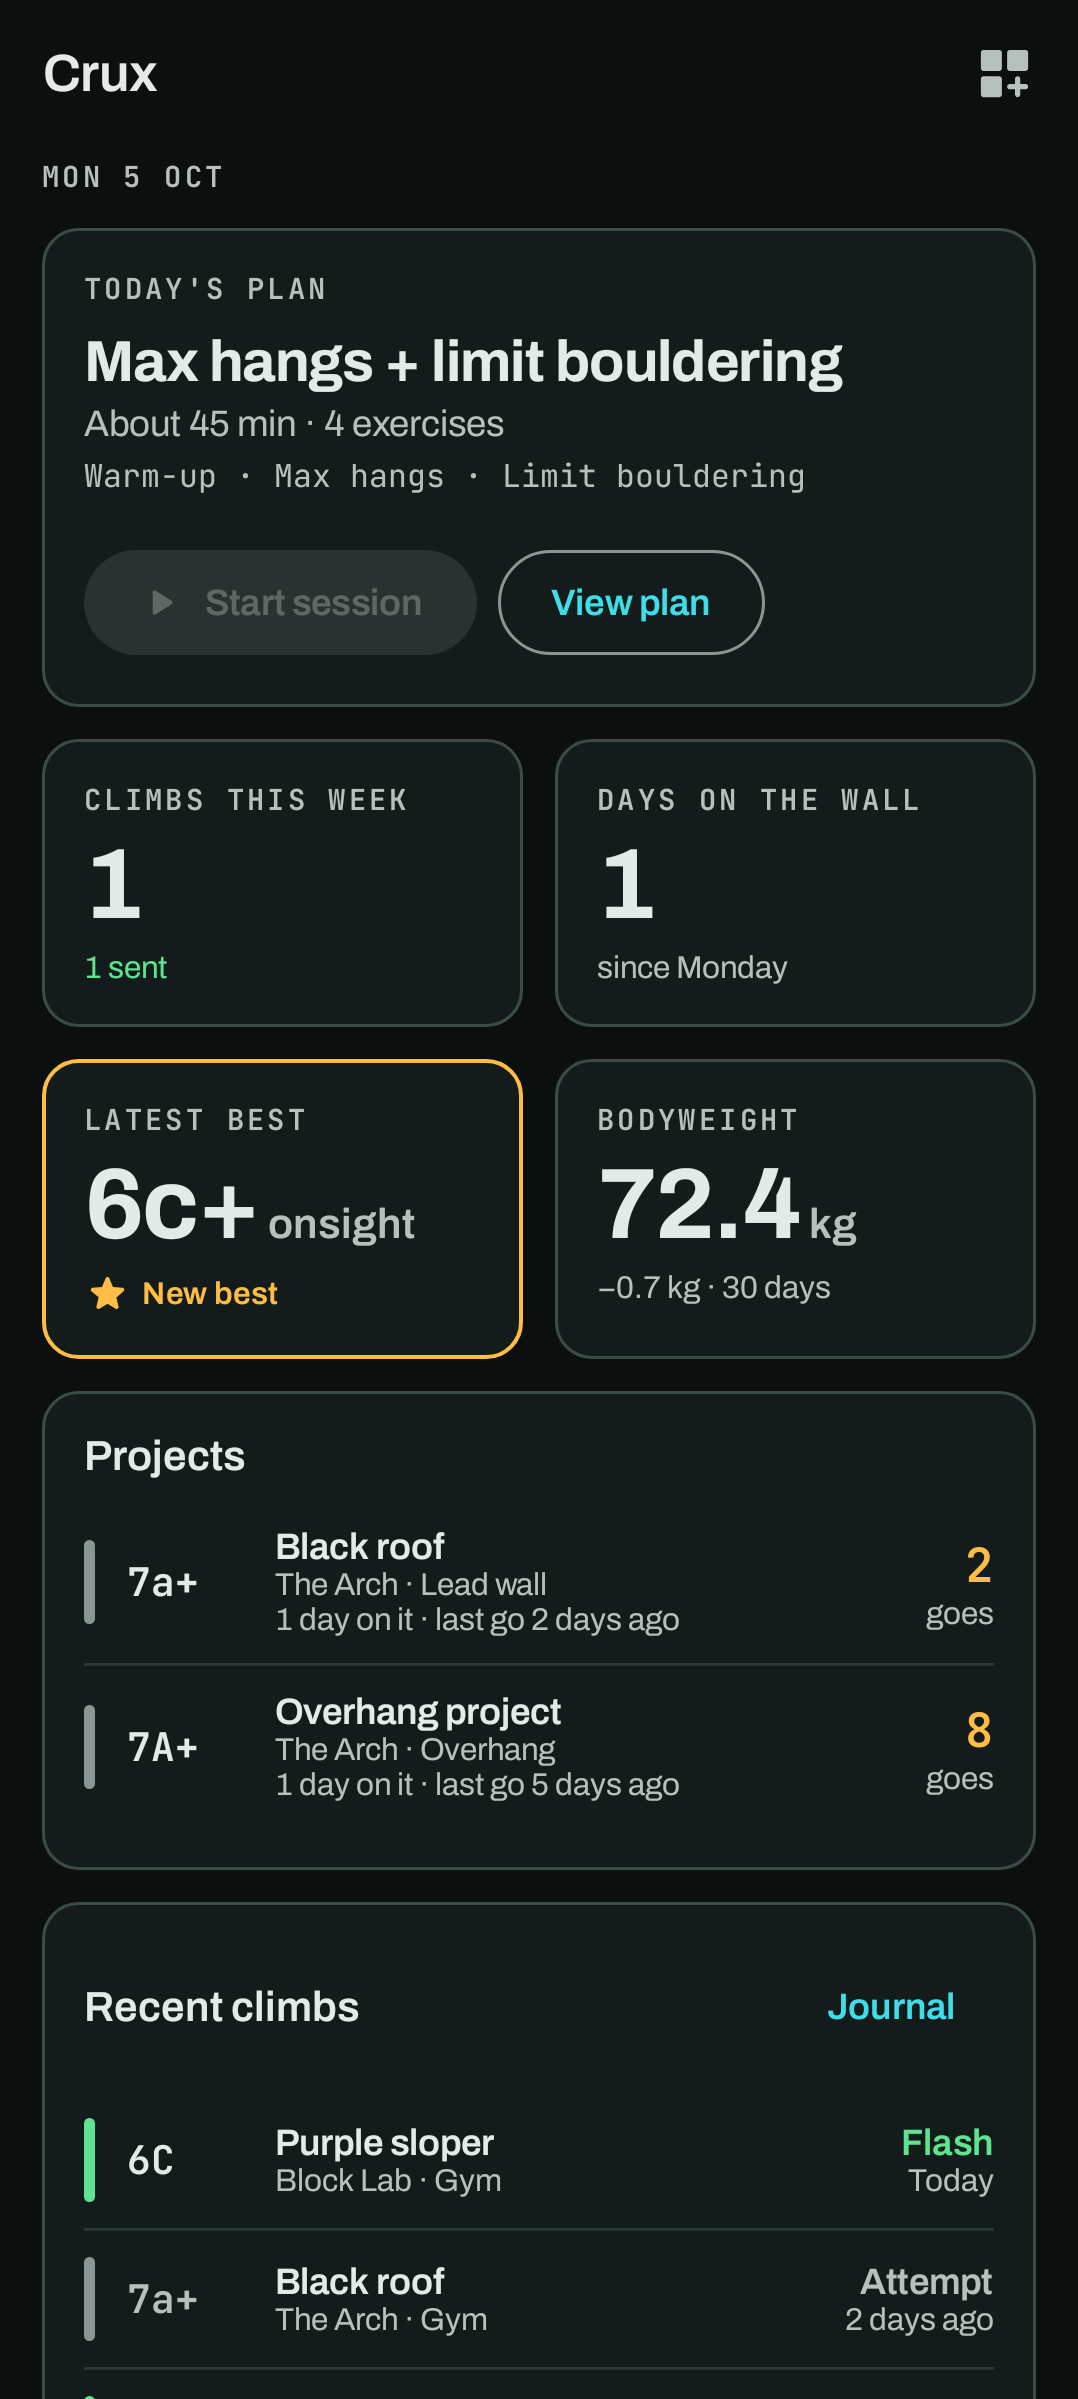
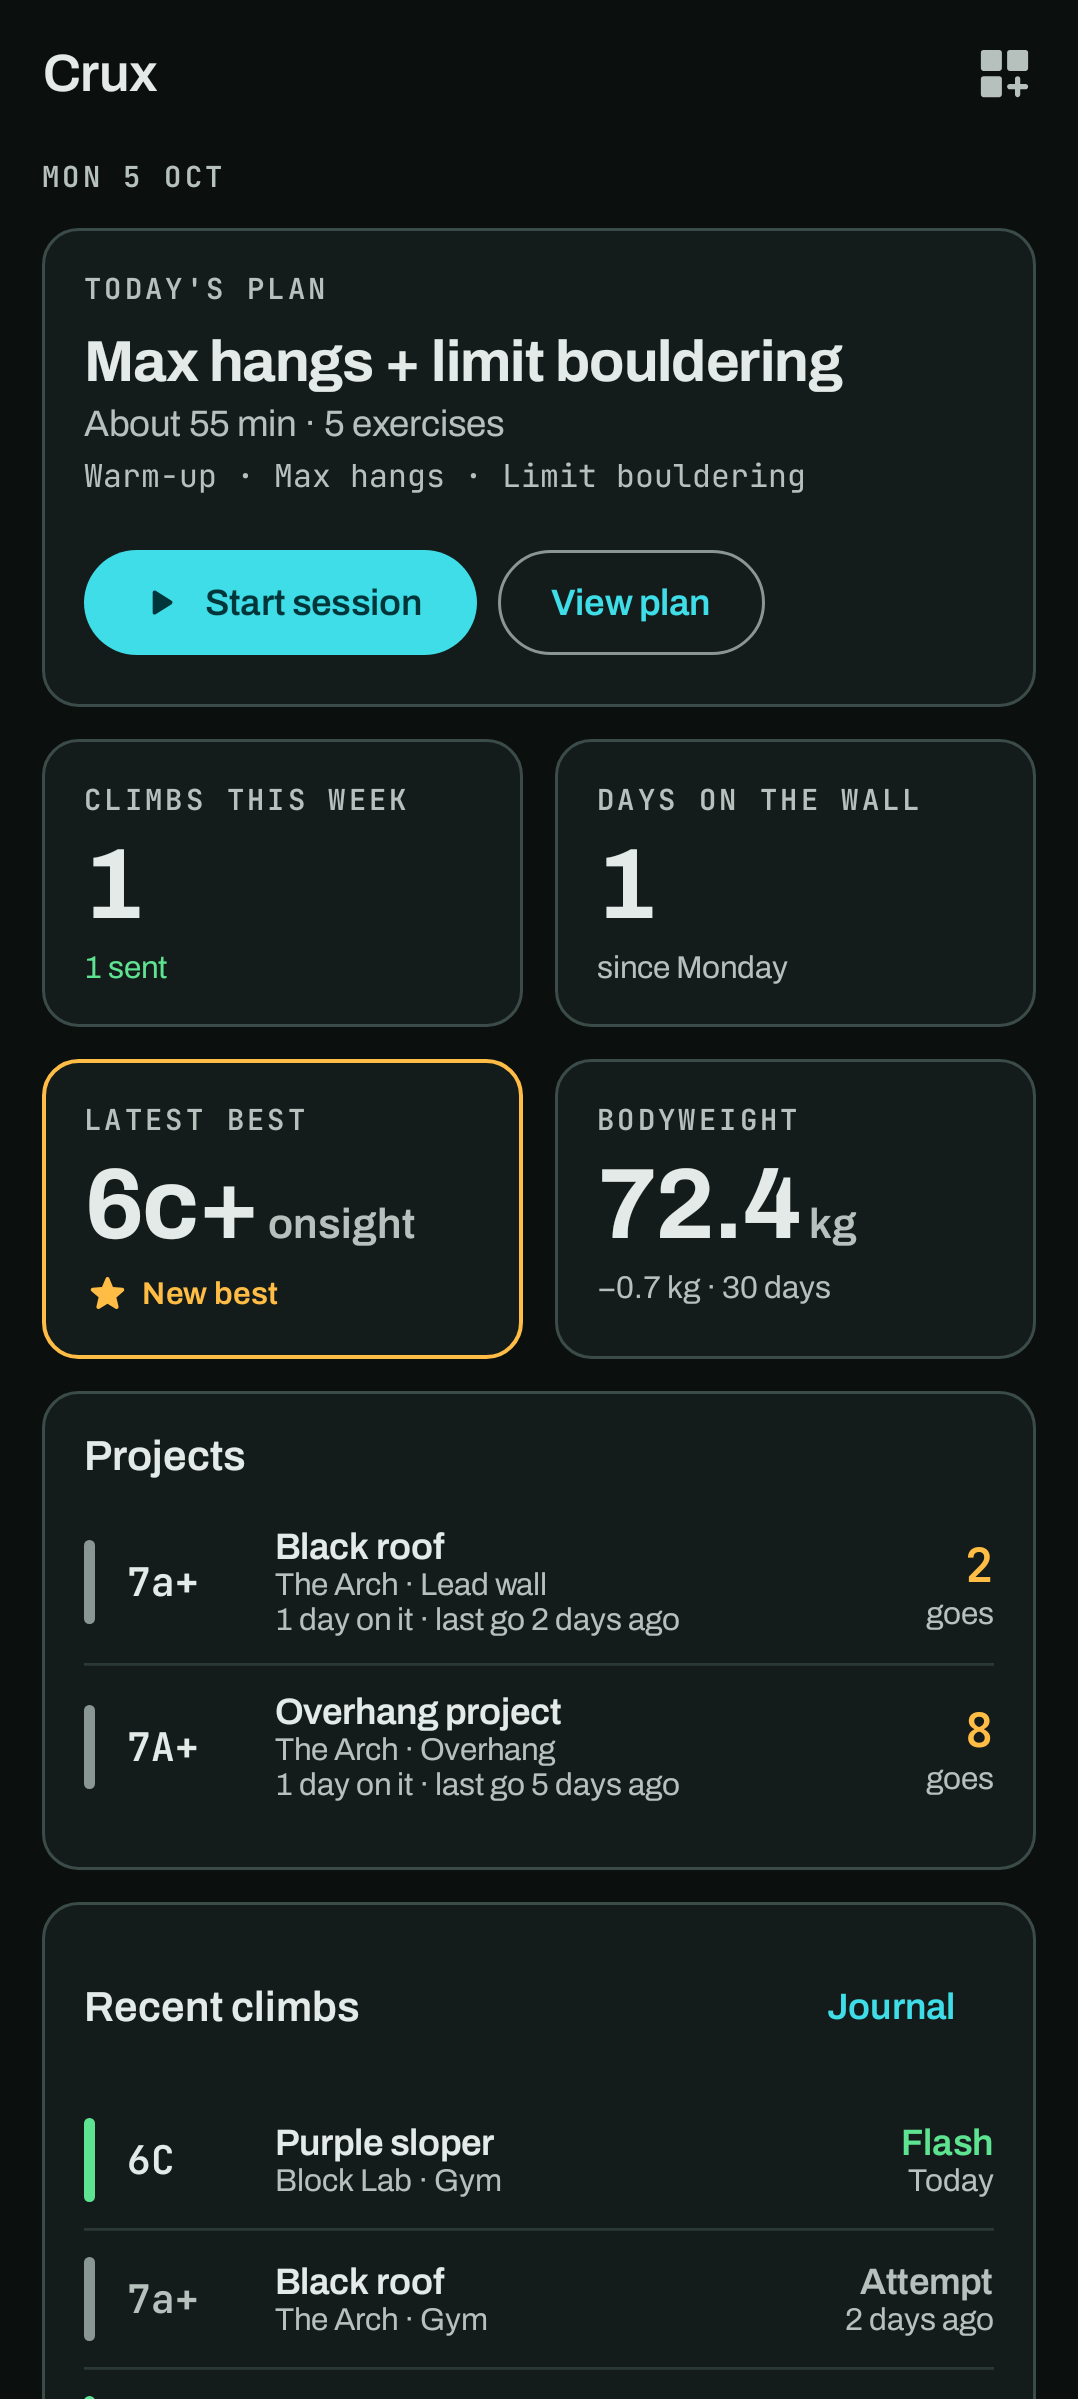
Session fixes: timer digits, Start session from Home, interval demo
- The timer's big number no longer gets squeezed to "0:2" by the counts.
- Home's plan widget starts the session; the plan page loses its old,
  disabled Start button.
- The demo max hangs plan has Repeaters, so the interval timer can be
  tried from a plan (sample data version 4).
- The Journal's empty text no longer promises sessions.

Changed region(s): [[0.0612, 0.2159, 0.4592, 0.2776]]

diff --git a/app/src/main/java/com/hardtekpt/crux/ui/session/SessionTimer.kt b/app/src/main/java/com/hardtekpt/crux/ui/session/SessionTimer.kt
@@ -16,6 +16,7 @@ import androidx.compose.foundation.layout.Box
 import androidx.compose.foundation.layout.Column
 import androidx.compose.foundation.layout.Row
 import androidx.compose.foundation.layout.RowScope
+import androidx.compose.foundation.layout.Spacer
 import androidx.compose.foundation.layout.fillMaxHeight
 import androidx.compose.foundation.layout.fillMaxSize
 import androidx.compose.foundation.layout.fillMaxWidth
@@ -144,7 +145,7 @@ internal fun SegmentStrip(segments: List<Segment>, modifier: Modifier = Modifier
 /** The big number in a band. */
 @Composable
 internal fun BandNumber(millisLeft: Long, color: Color, modifier: Modifier = Modifier) {
-    Text(clockLabel(secondsLeft(millisLeft) * 1000L), style = BigNumber, color = color, maxLines = 1, modifier = modifier)
+    Text(clockLabel(secondsLeft(millisLeft) * 1000L), style = BigNumber, color = color, maxLines = 1, softWrap = false, modifier = modifier)
 }
 
 /** A count beside the number: `3` over "repeats left". */
@@ -152,7 +153,7 @@ internal fun BandNumber(millisLeft: Long, color: Color, modifier: Modifier = Mod
 internal fun BandCount(value: Int, label: String, modifier: Modifier = Modifier) {
     Column(horizontalAlignment = Alignment.CenterHorizontally, modifier = modifier) {
         Text(value.toString(), style = CountNumber)
-        Text(label, style = MaterialTheme.typography.labelSmall, color = MaterialTheme.colorScheme.onSurfaceVariant)
+        Text(label, style = MaterialTheme.typography.bodySmall, color = MaterialTheme.colorScheme.onSurfaceVariant, maxLines = 1, softWrap = false)
     }
 }
 
@@ -237,8 +238,9 @@ internal fun IntervalBand(run: IntervalRun, nowMillis: Long, onPause: () -> Unit
             } else {
                 accent
             },
-            Modifier.weight(1f).testTag("timer_left"),
+            Modifier.testTag("timer_left"),
         )
+        Spacer(Modifier.weight(1f))
         BandCount(position.repeatsLeft, "repeats left", Modifier.testTag("timer_repeats_left"))
         BandCount(position.cyclesLeft, "cycles left", Modifier.testTag("timer_cycles_left"))
         if (run.paused) {

diff --git a/app/src/main/java/com/hardtekpt/crux/ui/home/Widgets.kt b/app/src/main/java/com/hardtekpt/crux/ui/home/Widgets.kt
@@ -63,6 +63,7 @@ data class WidgetActions(
     val openProgress: () -> Unit = {},
     val openYou: () -> Unit = {},
     val openProblem: (Long) -> Unit = {},
+    val startPlan: (Long) -> Unit = {},
 )
 
 /** Draws one dashboard widget at its size from the shared home state. */
@@ -70,7 +71,7 @@ data class WidgetActions(
 fun DashboardWidgetContent(widget: DashboardWidget, state: HomeUiState, actions: WidgetActions, modifier: Modifier = Modifier) {
     val large = widget.size == WidgetSize.LARGE
     when (widget.type) {
-        WidgetType.TODAYS_PLAN -> TodaysPlanWidget(state, large, actions.openTemplate, modifier)
+        WidgetType.TODAYS_PLAN -> TodaysPlanWidget(state, large, actions.openTemplate, actions.startPlan, modifier)
 
         WidgetType.WEEK_CLIMBS -> StatTile(
             label = "Climbs this week",
@@ -156,7 +157,7 @@ fun DashboardWidgetContent(widget: DashboardWidget, state: HomeUiState, actions:
 }
 
 @Composable
-private fun TodaysPlanWidget(state: HomeUiState, large: Boolean, onOpen: (Long) -> Unit, modifier: Modifier) {
+private fun TodaysPlanWidget(state: HomeUiState, large: Boolean, onOpen: (Long) -> Unit, onStart: (Long) -> Unit, modifier: Modifier) {
     val plan = state.todaysPlan
     CruxCard(modifier = modifier.fillMaxWidth()) {
         Text(
@@ -199,8 +200,7 @@ private fun TodaysPlanWidget(state: HomeUiState, large: Boolean, onOpen: (Long) 
             verticalAlignment = Alignment.CenterVertically,
             modifier = Modifier.padding(top = CruxTheme.space.s3),
         ) {
-            // Disabled until the session logger lands.
-            CruxButton(text = "Start session", onClick = {}, enabled = false, icon = Icons.Rounded.PlayArrow)
+            CruxButton(text = "Start session", onClick = { onStart(plan.id) }, icon = Icons.Rounded.PlayArrow, modifier = Modifier.testTag("widget_start_plan"))
             CruxButton(
                 text = "View plan",
                 onClick = { onOpen(plan.id) },

diff --git a/app/src/main/java/com/hardtekpt/crux/ui/train/TemplateDetailScreen.kt b/app/src/main/java/com/hardtekpt/crux/ui/train/TemplateDetailScreen.kt
@@ -55,7 +55,7 @@ class TemplateDetailViewModel @Inject constructor(savedStateHandle: SavedStateHa
         .stateIn(viewModelScope, SharingStarted.WhileSubscribed(5_000), TemplateDetailUiState())
 }
 
-/** A plan's blocks and targets, with Edit in the app bar. Sessions arrive with the session logger. */
+/** A plan's blocks and targets, with Edit in the app bar and Start session. */
 @Composable
 fun TemplateDetailScreen(onBack: () -> Unit, onEdit: (Long) -> Unit, onStart: (Long) -> Unit = {}, viewModel: TemplateDetailViewModel = hiltViewModel()) {
     val uiState by viewModel.uiState.collectAsStateWithLifecycle()
@@ -133,23 +133,6 @@ fun TemplateDetailScreen(onBack: () -> Unit, onEdit: (Long) -> Unit, onStart: (L
                         modifier = Modifier.testTag("template_exercise"),
                     )
                 }
-            }
-            item {
-                CruxButton(
-                    text = "Start session",
-                    onClick = {},
-                    enabled = false,
-                    modifier = Modifier
-                        .fillMaxWidth()
-                        .padding(top = space.s6),
-                )
-            }
-            item {
-                Text(
-                    "Sessions arrive with the session logger.",
-                    style = MaterialTheme.typography.bodySmall,
-                    color = MaterialTheme.colorScheme.onSurfaceVariant,
-                )
             }
         }
     }

diff --git a/app/src/main/java/com/hardtekpt/crux/data/seed/StarterDataSeeder.kt b/app/src/main/java/com/hardtekpt/crux/data/seed/StarterDataSeeder.kt
@@ -66,8 +66,9 @@ class StarterData @Inject constructor(
  * Bump when the sample data changes, so demo databases filled with an older set are refilled.
  * 2: Block Lab became a gym with a board (6 Oct 2026).
  * 3: places have named sections; Block Lab is "Main gym" plus "Kilter board".
+ * 4: the max hangs plan has Repeaters, an interval exercise (7 Oct 2026).
  */
-const val SAMPLE_DATA_VERSION = 3
+const val SAMPLE_DATA_VERSION = 4
 
 class StarterDataSeeder(private val clock: Clock) {
     /**
@@ -352,6 +353,7 @@ private val STARTER_TEMPLATES = listOf(
             ),
             "Max hangs" to listOf(
                 "Half-crimp hang" to ExerciseTarget(sets = 6, seconds = 10, loadKg = 5.0, restSeconds = 180),
+                "Repeaters" to ExerciseTarget(sets = 3, reps = 6, seconds = 7, loadKg = 0.0, restSeconds = 180, repRestSeconds = 3),
             ),
             "Limit bouldering" to listOf(
                 "Limit boulders" to ExerciseTarget(sets = 4, reps = 4, restSeconds = 180),

diff --git a/app/src/main/java/com/hardtekpt/crux/ui/home/HomeScreen.kt b/app/src/main/java/com/hardtekpt/crux/ui/home/HomeScreen.kt
@@ -80,6 +80,7 @@ fun HomeScreen(
     onOpenProgress: () -> Unit,
     onOpenYou: () -> Unit,
     onOpenProblem: (Long) -> Unit = {},
+    onStartPlan: (Long) -> Unit = {},
     viewModel: HomeViewModel = hiltViewModel(),
 ) {
     val uiState by viewModel.uiState.collectAsStateWithLifecycle()
@@ -89,7 +90,7 @@ fun HomeScreen(
         uiState = uiState,
         dashboard = dashboard,
         demoMode = demoMode,
-        actions = WidgetActions(onOpenTemplate, onOpenJournal, onOpenProgress, onOpenYou, onOpenProblem),
+        actions = WidgetActions(onOpenTemplate, onOpenJournal, onOpenProgress, onOpenYou, onOpenProblem, onStartPlan),
         editor = DashboardEditor(
             start = viewModel::startEditing,
             finish = viewModel::finishEditing,

diff --git a/app/src/main/java/com/hardtekpt/crux/ui/journal/JournalScreen.kt b/app/src/main/java/com/hardtekpt/crux/ui/journal/JournalScreen.kt
@@ -216,7 +216,7 @@ fun JournalContent(
                     InlineEmptyState(
                         icon = Icons.Rounded.Search,
                         text = if (query.kind == JournalFilter.Training && query.activeFilters == 0 && query.search.isBlank()) {
-                            "No training yet. Results you log on exercises show here, and workout sessions will too once the session logger arrives."
+                            "No training yet. Sessions you finish and results you log on exercises show here."
                         } else {
                             "Nothing matches. Try another word or clear a filter."
                         },

diff --git a/app/src/main/java/com/hardtekpt/crux/ui/CruxApp.kt b/app/src/main/java/com/hardtekpt/crux/ui/CruxApp.kt
@@ -172,6 +172,7 @@ fun CruxApp() {
                             onOpenProgress = { navController.navigateToTab(TopLevelDestination.Progress) },
                             onOpenYou = { navController.navigateToTab(TopLevelDestination.You) },
                             onOpenProblem = { navController.navigate(ProblemDetailRoute(it)) },
+                            onStartPlan = { startSession(it) },
                         )
                     }
                 }
